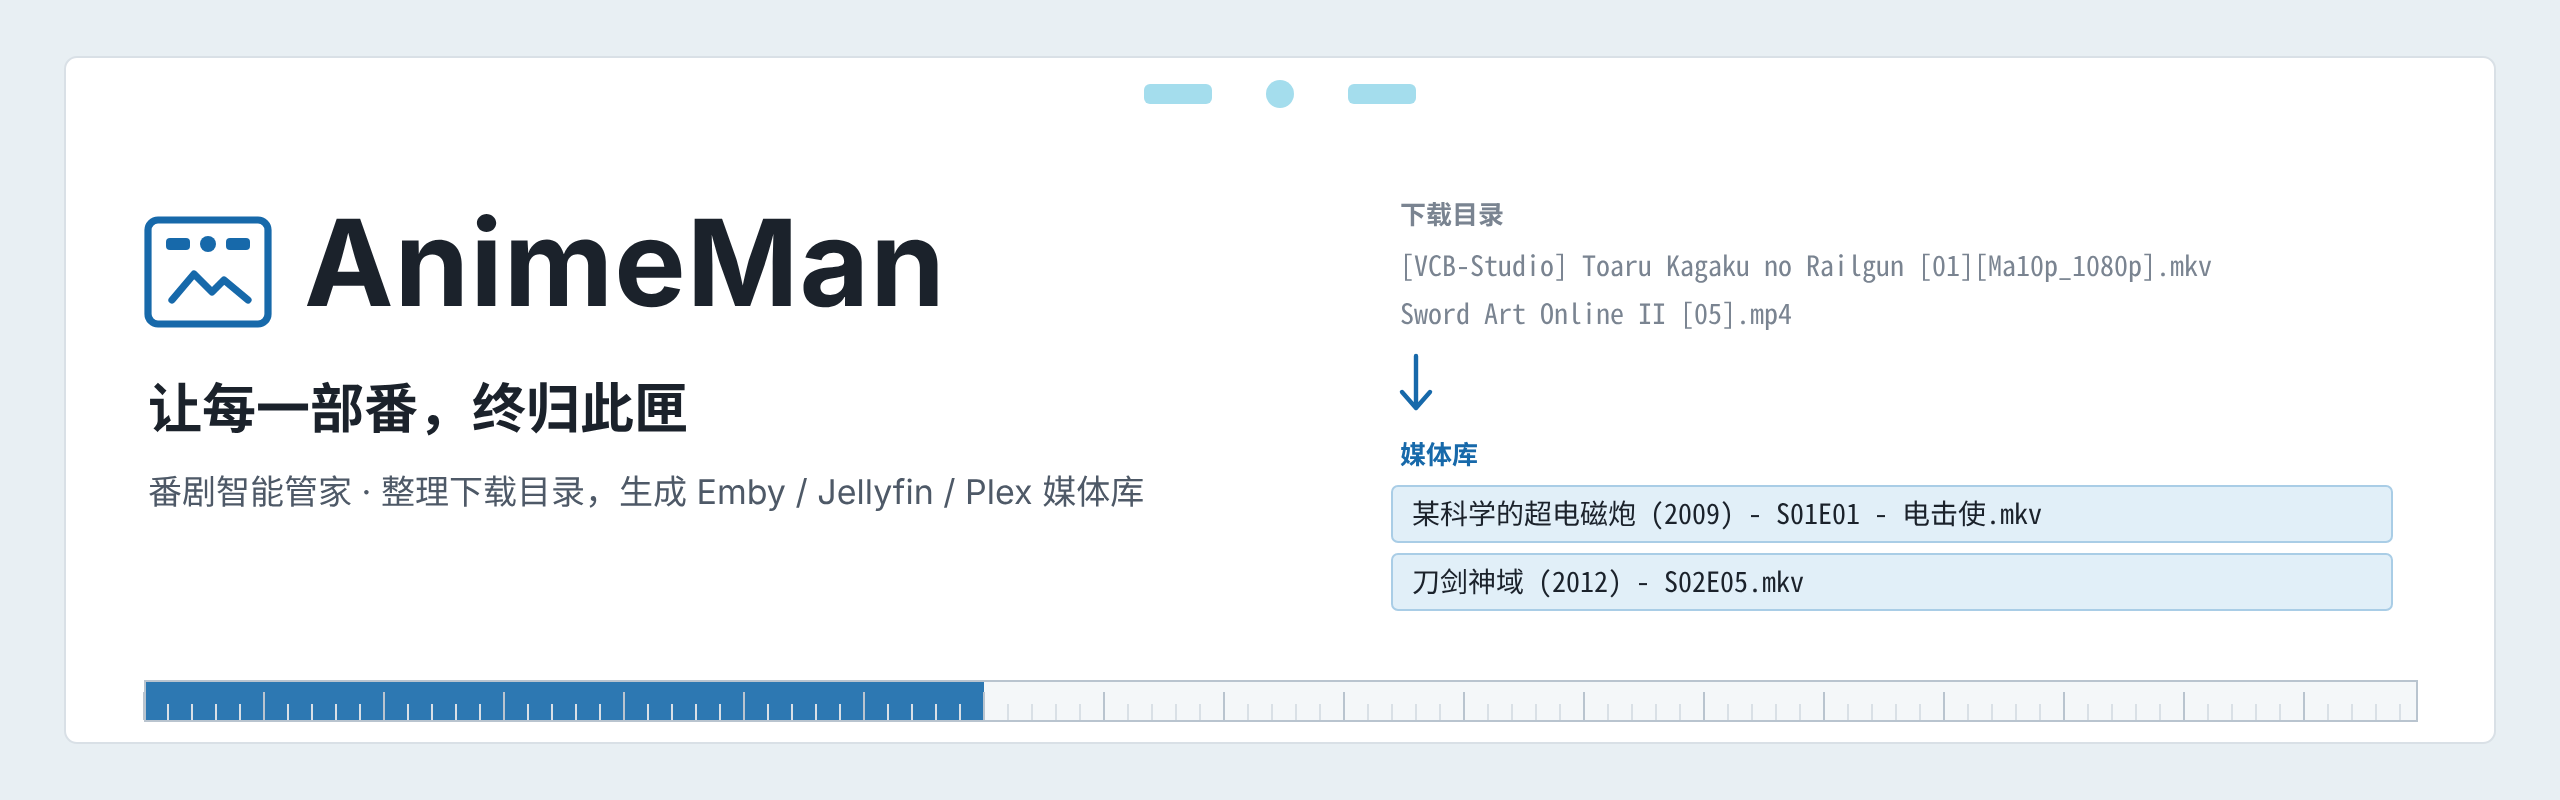
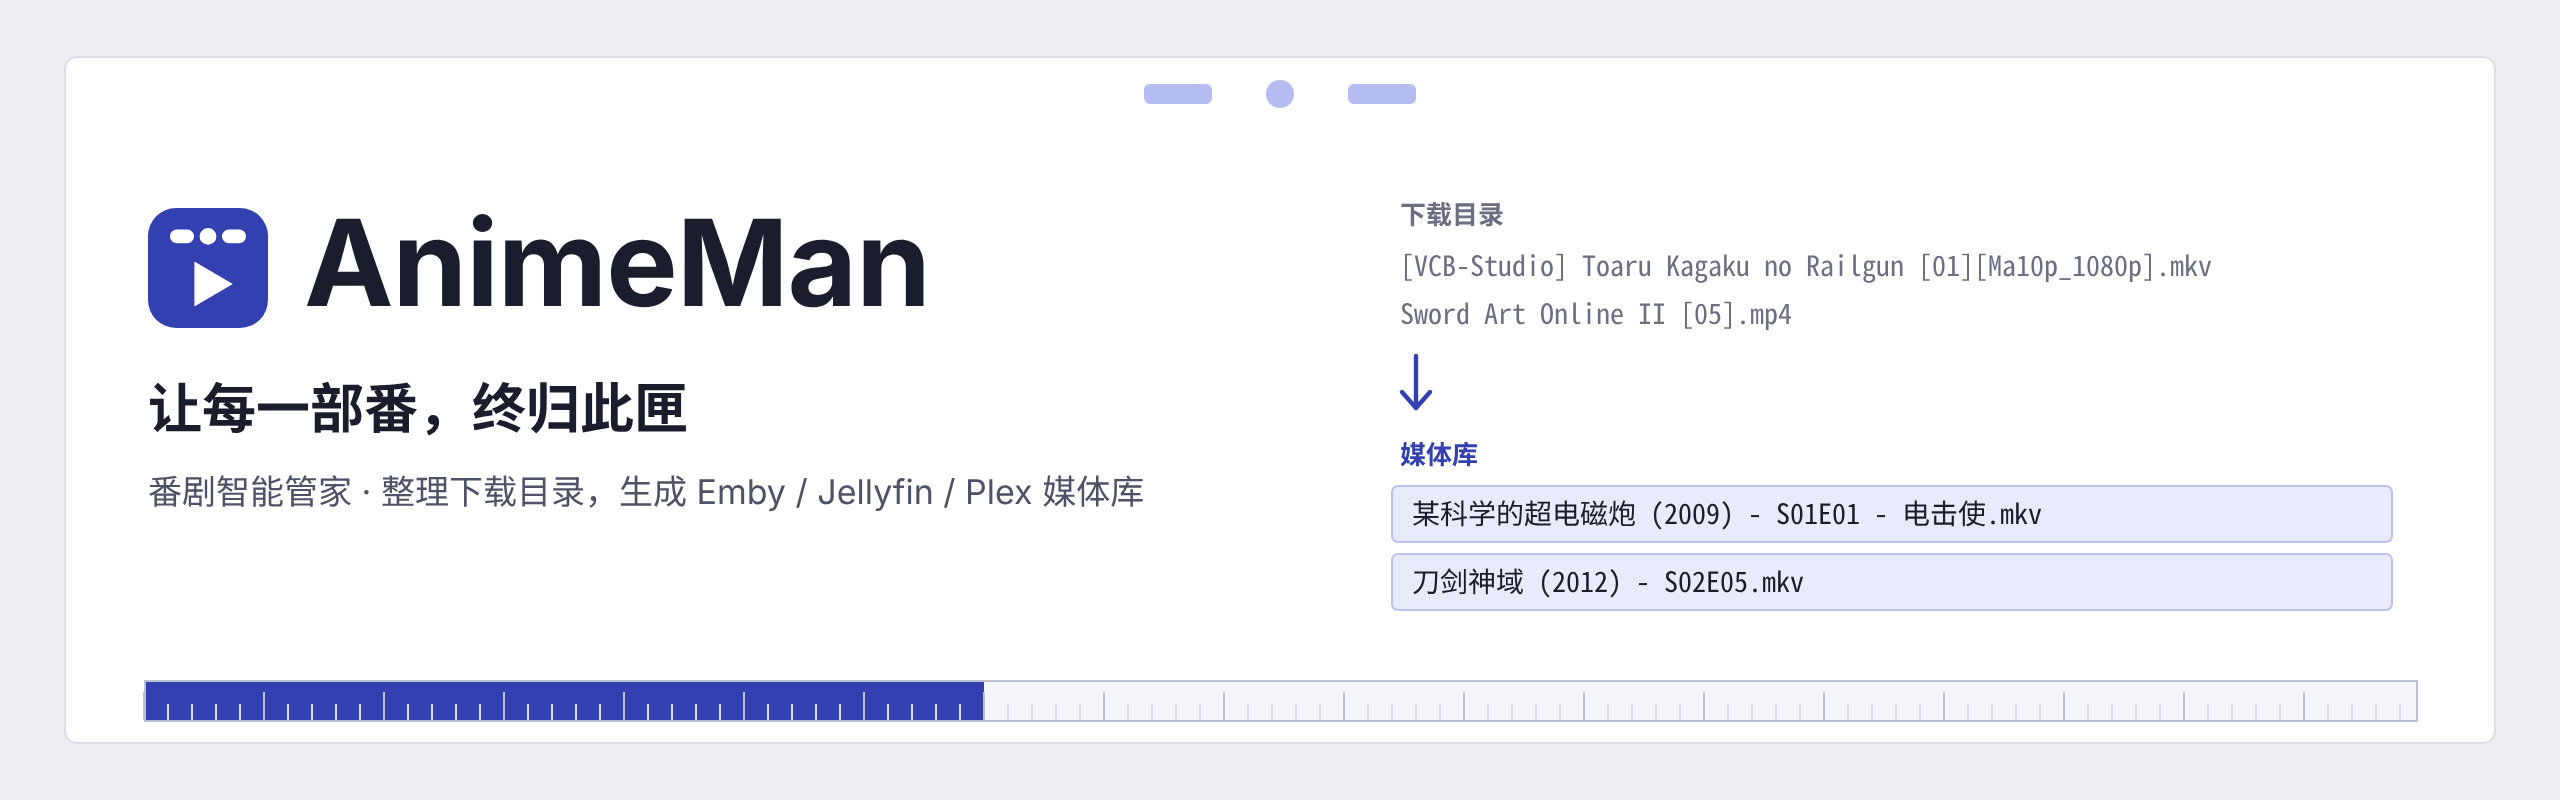
Refresh README and documentation images

diff --git a/docs/images/README.md b/docs/images/README.md
@@ -2,13 +2,12 @@
 
 ## 当前 README 使用的图片
 
-- `banner-light.png` / `banner-dark.png`：用户提供的浅色、深色项目横幅；对应 `.svg` 为可编辑源文件。
-- `library-light.png` / `library-dark.png`、`workbench.png`、`correction.png`、`phone.png`：用户提供的界面演示截图，使用 `tests/ui_preview.cjs` 和合成数据生成，片名与海报为虚构内容。
-- 上述图片随用户提供的 `animeman-readme.diff` 导入，不代表本机真实媒体库。
+- `banner-light.png` / `banner-dark.png`：项目横幅，对应 `.svg` 为可编辑源文件（群青主色与定位尺标志）。
+- `library-light.png` / `library-dark.png`、`workbench.png`、`rules.png`、`correction.png`、`density.png`、`phone.png`：界面演示截图，由 `node tests/ui_preview.cjs` 用 mock 接口和合成数据生成。片名、海报、路径、TMDB ID 和识别规则都是虚构内容，不代表任何真实媒体库或配置。
 
 ## 保留的本机实际截图
 
-以下说明仅适用于 `local-*.png` 文件：
+以下说明仅适用于 `local-*.png` 文件（README 当前未引用）：
 
 这些图片来自本机实际安装、运行的 AnimeMan v1.1.0（提交 b454707），通过真实浏览器访问本地服务截取。没有使用 mock API、合成媒体库或旧版本截图。
 
